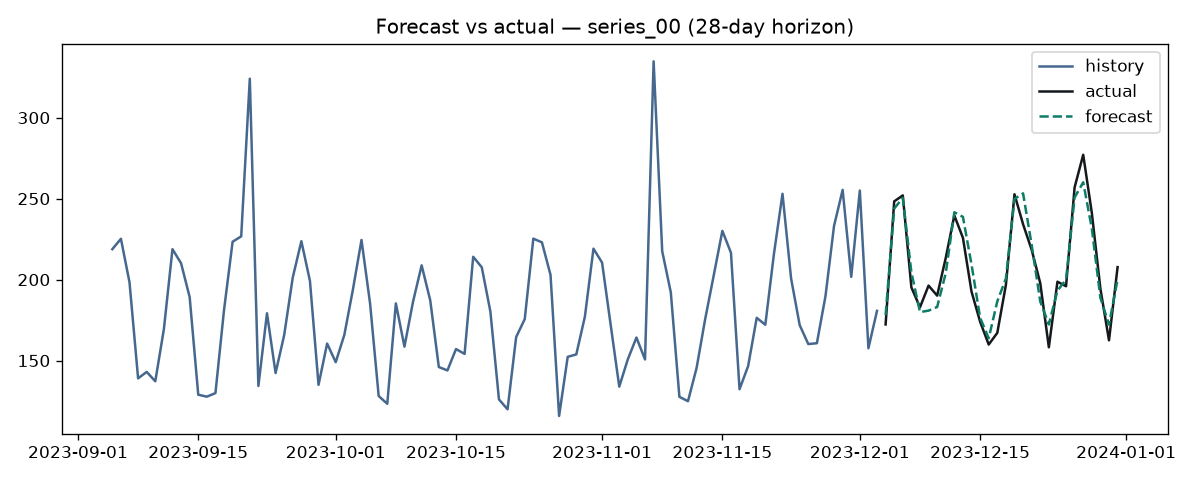
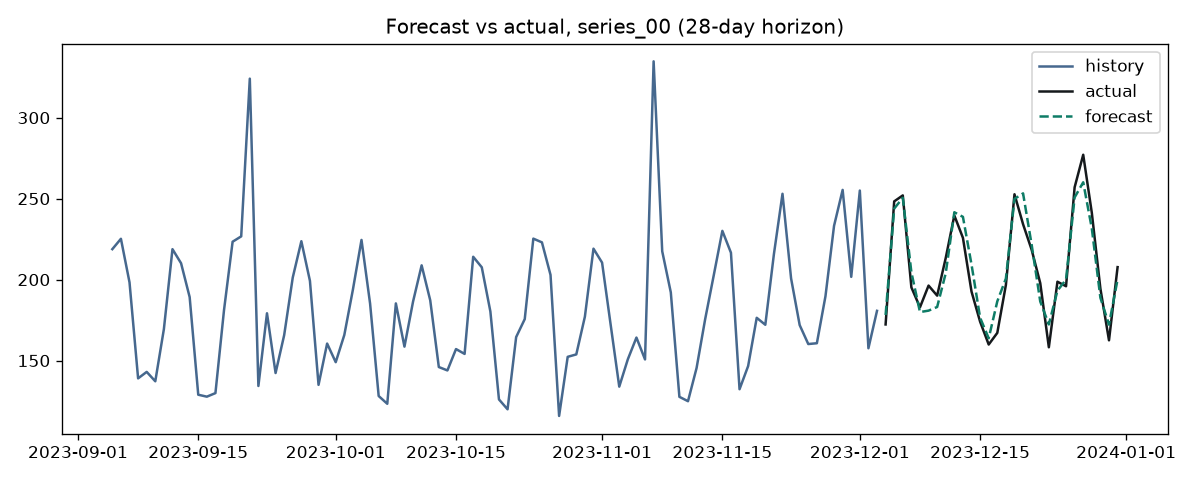
Use plain punctuation in place of em dashes

Changed region(s): [[0.3083, 0.0312, 0.7092, 0.0938]]

diff --git a/src/forecasting/backtest.py b/src/forecasting/backtest.py
@@ -1,4 +1,4 @@
-"""Rolling-origin backtesting — the honest way to estimate forecast accuracy.
+"""Rolling-origin backtesting, the honest way to estimate forecast accuracy.
 
 For each fold we train only on data up to a cutoff, recursively forecast the
 horizon, and score against the held-out actuals. Folds step backwards from the

diff --git a/src/forecasting/evaluate.py b/src/forecasting/evaluate.py
@@ -68,7 +68,7 @@ def evaluate(cfg: Config) -> dict:
     plt.plot(hist["date"], hist["demand"], color="#46688E", label="history")
     plt.plot(act["date"], act["demand"], color="#15191C", label="actual")
     plt.plot(pr["date"], pr["prediction"], color="#0E7C66", linestyle="--", label="forecast")
-    plt.title(f"Forecast vs actual — {sid} ({cfg.horizon}-day horizon)")
+    plt.title(f"Forecast vs actual, {sid} ({cfg.horizon}-day horizon)")
     plt.legend()
     plt.tight_layout()
     plt.savefig(figures / "forecast_vs_actual.png", dpi=120)

diff --git a/src/forecasting/forecast.py b/src/forecasting/forecast.py
@@ -1,7 +1,7 @@
 """Recursive multi-step forecasting.
 
 Predicts one day at a time, feeding each prediction back in as the basis for the
-next day's lag/rolling features — the standard way to roll a single-step model
+next day's lag/rolling features, the standard way to roll a single-step model
 out to a horizon. Feature construction mirrors `features.py` exactly.
 """
 

diff --git a/src/forecasting/generator.py b/src/forecasting/generator.py
@@ -1,7 +1,7 @@
 """Synthetic multi-series daily demand.
 
 Each series has its own base level, gentle trend, weekly + yearly seasonality,
-occasional promotion spikes, and noise — a realistic forecasting panel with no
+occasional promotion spikes, and noise, a realistic forecasting panel with no
 external data dependency.
 """
 

diff --git a/docs/specs/2026-06-25-forecasting-design.md b/docs/specs/2026-06-25-forecasting-design.md
@@ -1,8 +1,8 @@
-# mlops-demand-forecasting — Design Spec
+# mlops-demand-forecasting, Design Spec
 
 - **Date:** 2026-06-25
 - **Status:** Approved
-- **Portfolio role:** MLOps lifecycle flagship (repo 3 of 6) — demonstrates the
+- **Portfolio role:** MLOps lifecycle flagship (repo 3 of 6), demonstrates the
   production discipline shared across all three resume personas.
 
 ## Overview
@@ -10,7 +10,7 @@
 Demand forecasting on a synthetic multi-series panel, wrapped in a full MLOps
 lifecycle: rolling-origin backtesting, MLflow tracking + model registry,
 scheduled automated retraining gated by drift/error monitoring, and a FastAPI
-forecasting service. Self-contained and reproducible — no external data.
+forecasting service. Self-contained and reproducible, no external data.
 
 ## Resume claims this proves
 
@@ -24,13 +24,13 @@ forecasting service. Self-contained and reproducible — no external data.
 ## Key design decisions
 
 - **Recursive single-step model** (LightGBM with lag/rolling/calendar features)
-  rolled out to the horizon — one model, any horizon.
-- **No train/serve skew** — training features (vectorized) and serving features
+  rolled out to the horizon, one model, any horizon.
+- **No train/serve skew**: training features (vectorized) and serving features
   (recursive) share definitions.
 - **Rolling-origin backtest** for honest accuracy, not in-sample fit.
 - **sqlite MLflow backend** so the model registry (versions + champion alias) works.
 - **Closed retraining loop** gated by a monitor, runnable from a CI cron.
-- **Prophet optional** (heavier install) — lazily imported; LightGBM + ETS +
+- **Prophet optional** (heavier install), lazily imported; LightGBM + ETS +
   seasonal-naive are the verified models.
 
 ## Components

diff --git a/README.md b/README.md
@@ -37,14 +37,14 @@ Honest **rolling-origin backtest** (train-to-cutoff → forecast unseen 28 days 
 
 ## The MLOps lifecycle (what makes this more than a model)
 
-- **Backtesting** (`backtest.py`) — rolling-origin, the honest way to estimate
+- **Backtesting** (`backtest.py`), rolling-origin, the honest way to estimate
   forecast error; reported metrics come from here, not in-sample fit.
-- **Registry** (`registry.py`) — every model is logged to MLflow (sqlite backend)
+- **Registry** (`registry.py`), every model is logged to MLflow (sqlite backend)
   and the new version is aliased **`champion`** in the Model Registry.
-- **Monitoring** (`monitor.py`) — compares live forecast MAE to the backtest
+- **Monitoring** (`monitor.py`), compares live forecast MAE to the backtest
   baseline and checks demand drift (PSI). A real run reports:
   `mae_ratio 0.87, demand_psi 0.08 → needs_retrain: false` (healthy).
-- **Automated retraining** (`retrain.py` + `.github/workflows/retrain.yml`) — a
+- **Automated retraining** (`retrain.py` + `.github/workflows/retrain.yml`), a
   scheduled workflow runs the monitor and retrains/re-registers **only when the
   gate trips**. The closed loop, not just a notebook.
 
@@ -52,7 +52,7 @@ Honest **rolling-origin backtest** (train-to-cutoff → forecast unseen 28 days 
 
 - **Recursive multi-step** LightGBM: one single-step model rolled out to the
   horizon, feeding predictions back as lag features.
-- **No train/serve skew** — `features.py` (training) and `forecast.py` (serving)
+- **No train/serve skew**: `features.py` (training) and `forecast.py` (serving)
   produce identical feature columns.
 - Features: calendar (day-of-week, month, holidays), lags (1/7/14/28), rolling
   mean/std, promo flag, per-series index.

diff --git a/docs/architecture.md b/docs/architecture.md
@@ -25,9 +25,9 @@ flowchart LR
 
 - **One feature definition, two code paths.** `features.py` builds the training
   matrix (vectorized); `forecast.py` rebuilds the identical columns one step at a
-  time for recursive forecasting. Same names, same order — no skew.
+  time for recursive forecasting. Same names, same order, no skew.
 - **Honest metrics.** Accuracy comes from `backtest.py` (rolling-origin: train to
-  a cutoff, forecast unseen horizon, repeat) — not from fitting and scoring the
+  a cutoff, forecast unseen horizon, repeat), not from fitting and scoring the
   same data.
 - **Registry-backed.** A sqlite MLflow backend enables versioning; each model is
   logged and aliased `champion`.